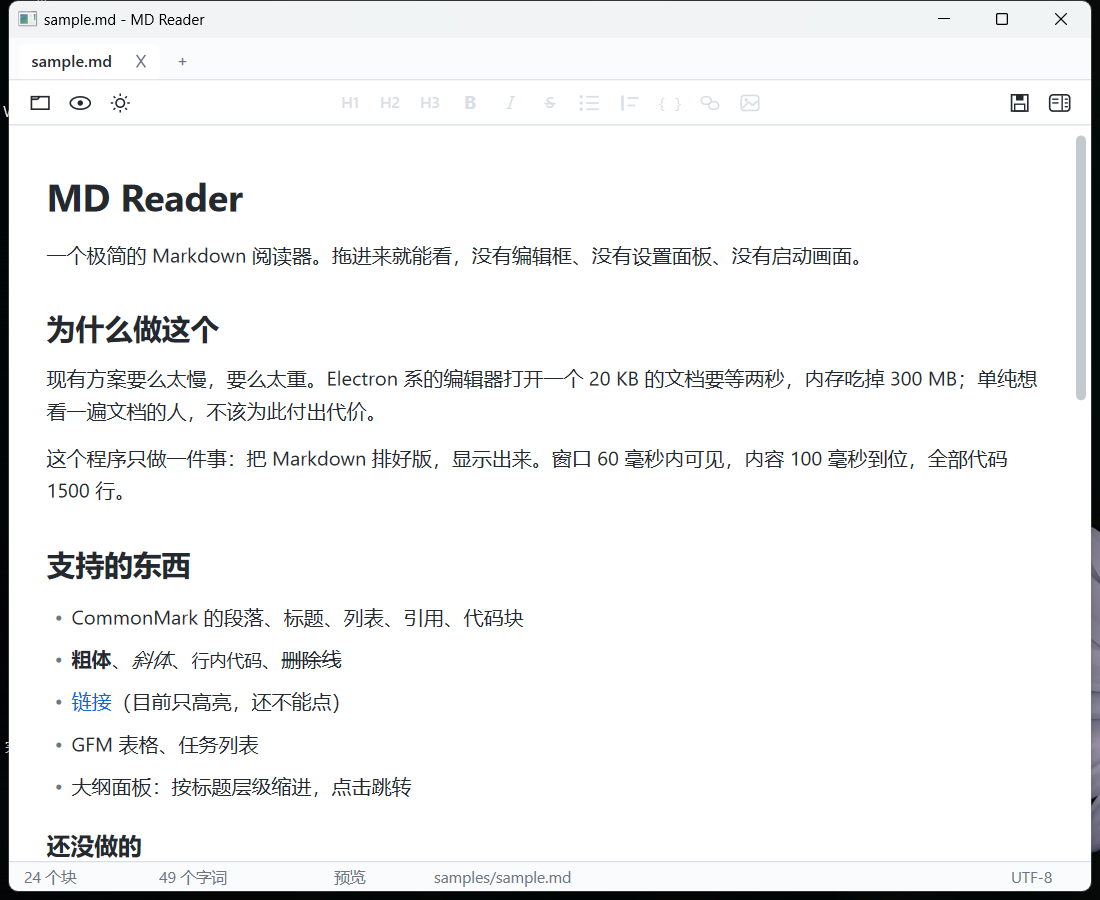
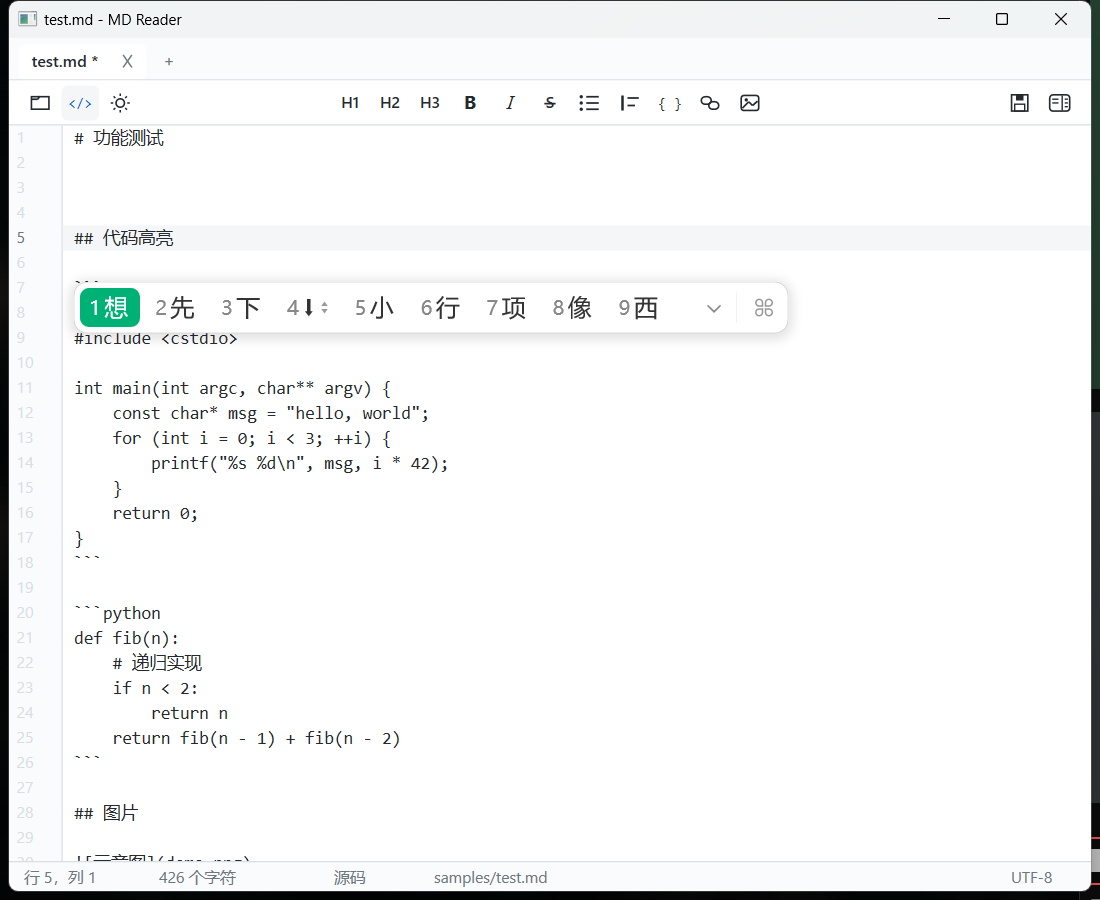
去掉预览点击编辑，支持粘贴图片到 attachment，修 Enter 双换行
- 预览模式恢复纯只读，点击不再跳到源码
- 源码模式 Ctrl+V：剪贴板位图经 WIC 编码成 PNG，存到文档同级 attachment/ 目录，
  插入 ![](attachment/image-<时间戳>.png)；未保存的文档给出提示
- Enter / Tab 同时在 WM_KEYDOWN 和 WM_CHAR 里处理，导致一次回车换两行，已修正
- 清理构建过程文件，重新打包 dist/MDReader-win64.zip 并更新安装副本

diff --git a/src/main.cpp b/src/main.cpp
@@ -298,9 +298,59 @@ void edCopy(App& app, bool cut) {
     InvalidateRect(app.hwnd, nullptr, FALSE);
 }
 
+namespace {
+
+// Pastes a clipboard bitmap as attachment/<name>.png next to the document and
+// inserts the markdown link at the caret.
+void pasteClipboardImage(App& app) {
+    if (!app.hasTab() || app.tab().path.empty()) {
+        MessageBoxW(app.hwnd, L"先把文档保存到磁盘，图片会放到同级目录的 attachment 文件夹",
+                    L"MD Reader", MB_ICONINFORMATION);
+        return;
+    }
+    std::wstring path = app.tab().path;
+    size_t slash = path.find_last_of(L"\/");
+    std::wstring dir = (slash == std::wstring::npos) ? std::wstring() : path.substr(0, slash + 1);
+    std::wstring attach = dir + L"attachment";
+    CreateDirectoryW(attach.c_str(), nullptr);
+
+    SYSTEMTIME st;
+    GetLocalTime(&st);
+    wchar_t name[128];
+    for (int n = 0; n < 100; ++n) {
+        if (n == 0)
+            swprintf(name, 128, L"attachment/image-%02d%02d%02d-%02d%02d%02d.png", st.wYear % 100,
+                     st.wMonth, st.wDay, st.wHour, st.wMinute, st.wSecond);
+        else
+            swprintf(name, 128, L"attachment/image-%02d%02d%02d-%02d%02d%02d-%d.png",
+                     st.wYear % 100, st.wMonth, st.wDay, st.wHour, st.wMinute, st.wSecond, n);
+        std::wstring full = dir + name;
+        if (GetFileAttributesW(full.c_str()) != INVALID_FILE_ATTRIBUTES) continue;
+        if (!saveClipboardImage(app.hwnd, full)) return;
+        std::wstring insert = std::wstring(L"![](") + name + L")";
+        Editor& ed = app.tab().ed;
+        // On its own line the image becomes a block-level element.
+        if (ed.caret.col > 0) insert = std::wstring(L"\n") + insert;
+        ed.snapshot(GetTickCount64());
+        ed.insert(insert + std::wstring(L"\n"));
+        app.tab().dirty = true;
+        edEnsureCaretVisible(app);
+        InvalidateRect(app.hwnd, nullptr, FALSE);
+        return;
+    }
+}
+
+}  // namespace
+
 void edPaste(App& app) {
     if (!app.hasTab() || app.tab().mode != Mode::Source) return;
     if (!OpenClipboard(app.hwnd)) return;
+
+    if (!IsClipboardFormatAvailable(CF_UNICODETEXT) && IsClipboardFormatAvailable(CF_DIB)) {
+        CloseClipboard();
+        pasteClipboardImage(app);
+        return;
+    }
     HANDLE h = GetClipboardData(CF_UNICODETEXT);
     if (h) {
         const wchar_t* p = (const wchar_t*)GlobalLock(h);
@@ -658,77 +708,6 @@ void openHelp(App& app) {
 }
 
 
-// ------------------------------------------------------------------ preview editing
-
-int blockAtViewPoint(App& app, float x, float y) {
-    if (!app.hasTab()) return -1;
-    Tab& t = app.tab();
-    if (x < 0.f || x > app.contentRight()) return -1;
-    float docY = y - app.contentTop() + t.scrollY;
-    for (const auto& it : t.lay.items) {
-        if (docY >= it.y && docY <= it.y + it.h) return it.blockIndex;
-        if (it.y > docY) break;
-    }
-    return -1;
-}
-
-namespace {
-
-std::wstring blockNeedle(const Block& b) {
-    std::wstring s;
-    if (b.kind == BKind::Code) {
-        size_t i = 0;
-        while (i < b.code.size() && (b.code[i] == L'\n' || b.code[i] == L'\r')) ++i;
-        size_t j = b.code.find_first_of(L"\r\n", i);
-        s = b.code.substr(i, j == std::wstring::npos ? std::wstring::npos : j - i);
-    } else if (b.kind == BKind::Table) {
-        return std::wstring();
-    } else {
-        for (const auto& r : b.runs) s += r.text;
-    }
-    size_t a = s.find_first_not_of(L" \t\r\n");
-    if (a == std::wstring::npos) return std::wstring();
-    s = s.substr(a);
-    if (s.size() > 24) s = s.substr(0, 24);
-    return s;
-}
-
-}  // namespace
-
-// Blocks appear in document order, so a forward search over the buffer finds
-// each one: short needles keep it working when markdown markers sit between.
-int sourceLineForBlock(Tab& t, int blockIndex) {
-    std::wstring src = t.ed.text();
-    size_t pos = 0;
-    for (int i = 0; i <= blockIndex && i < (int)t.doc.blocks.size(); ++i) {
-        std::wstring needle = blockNeedle(t.doc.blocks[(size_t)i]);
-        if (needle.empty()) continue;
-        for (size_t cut : {needle.size(), (size_t)16, (size_t)10, (size_t)6, (size_t)4}) {
-            if (cut > needle.size()) continue;
-            size_t found = src.find(needle.substr(0, cut), pos);
-            if (found != std::wstring::npos) {
-                pos = found;
-                break;
-            }
-        }
-    }
-    int line = 0;
-    for (size_t i = 0; i < pos && i < src.size(); ++i)
-        if (src[i] == L'\n') ++line;
-    return line;
-}
-
-void previewEditAt(App& app, int blockIndex) {
-    if (!app.hasTab() || blockIndex < 0) return;
-    int line = sourceLineForBlock(app.tab(), blockIndex);
-    switchMode(app, Mode::Source);
-    Editor& ed = app.tab().ed;
-    ed.moveTo(Pos{line, 0}, false);
-    ed.firstLine = std::max(0, line - 4);
-    edEnsureCaretVisible(app);
-    InvalidateRect(app.hwnd, nullptr, FALSE);
-}
-
 void toggleTheme(App& app) {
     app.themeDark = !app.themeDark;
     app.forceTheme = app.themeDark ? 1 : 2;
@@ -954,11 +933,6 @@ static LRESULT CALLBACK WndProc(HWND h, UINT msg, WPARAM wp, LPARAM lp) {
                         scrollToBlock(*app, app->tab().toc[(size_t)oi].blockIndex);
                         return 0;
                     }
-                    int bi = blockAtViewPoint(*app, x, y);
-                    if (bi >= 0) {
-                        previewEditAt(*app, bi);
-                        return 0;
-                    }
                     ScrollGeom g = scrollGeom(*app);
                     if (g.visible && x >= g.trackX - 6.f && x <= g.trackX + g.trackW + 6.f) {
                         if (y >= g.thumbY && y <= g.thumbY + g.thumbH) {
@@ -1041,8 +1015,8 @@ static LRESULT CALLBACK WndProc(HWND h, UINT msg, WPARAM wp, LPARAM lp) {
                 return 0;
             }
             if (app->hasTab() && app->tab().mode == Mode::Source) {
-                if (c == L'\r') { edKey(*app, VK_RETURN, false, false); return 0; }
-                if (c == L'\t') { edInsertText(*app, L"    "); return 0; }
+                // Enter and Tab arrive through WM_KEYDOWN; ignore the WM_CHAR copies.
+                if (c == L'\r' || c == L'\t') return 0;
                 if (c >= 32 && c != 127) {
                     wchar_t buf[2] = {c, 0};
                     edInsertText(*app, buf);

diff --git a/src/images.cpp b/src/images.cpp
@@ -195,3 +195,80 @@ void drawImageBlock(App& app, const Item& it, const std::wstring& path) {
                           (r.top + r.bottom) * 0.5f + 14.f),
                      app.brMuted.get(), D2D1_DRAW_TEXT_OPTIONS_CLIP);
 }
+
+// Pulls a CF_DIB off the clipboard and writes it as a PNG next to the
+// document, so pasted screenshots become ordinary relative links.
+bool saveClipboardImage(HWND owner, const std::wstring& file) {
+    if (!OpenClipboard(owner)) return false;
+    HANDLE h = GetClipboardData(CF_DIB);
+    if (!h) {
+        CloseClipboard();
+        return false;
+    }
+    const BITMAPINFOHEADER* bi = (const BITMAPINFOHEADER*)GlobalLock(h);
+    bool ok = false;
+    if (bi && bi->biBitCount >= 24 && bi->biCompression == BI_RGB) {
+        int w = (int)bi->biWidth;
+        int hgt = (int)bi->biHeight;
+        bool topDown = hgt < 0;
+        if (topDown) hgt = -hgt;
+        const BYTE* bits = (const BYTE*)bi + bi->biSize;
+        const int srcBpp = bi->biBitCount / 8;
+        const int srcStride = ((w * bi->biBitCount + 31) / 32) * 4;
+
+        std::vector<BYTE> px((size_t)w * (size_t)hgt * 4, 0);
+        bool anyAlpha = false;
+        for (int y = 0; y < hgt; ++y) {
+            const BYTE* row = bits + (size_t)(topDown ? y : hgt - 1 - y) * srcStride;
+            BYTE* dst = px.data() + (size_t)y * w * 4;
+            for (int x = 0; x < w; ++x) {
+                dst[x * 4 + 0] = row[x * srcBpp + 0];
+                dst[x * 4 + 1] = row[x * srcBpp + 1];
+                dst[x * 4 + 2] = row[x * srcBpp + 2];
+                BYTE a = srcBpp == 4 ? row[x * 4 + 3] : 255;
+                dst[x * 4 + 3] = a;
+                if (a) anyAlpha = true;
+            }
+        }
+        if (!anyAlpha)
+            for (size_t i = 3; i < px.size(); i += 4) px[i] = 255;
+
+        IWICImagingFactory* f = nullptr;
+        if (SUCCEEDED(CoCreateInstance(CLSID_WICImagingFactory, nullptr, CLSCTX_INPROC_SERVER,
+                                       IID_PPV_ARGS(&f)))) {
+            IWICBitmap* bmp = nullptr;
+            if (SUCCEEDED(f->CreateBitmapFromMemory((UINT)w, (UINT)hgt,
+                                                    GUID_WICPixelFormat32bppBGRA, (UINT)w * 4,
+                                                    (UINT)px.size(), px.data(), &bmp))) {
+                IWICStream* stream = nullptr;
+                if (SUCCEEDED(f->CreateStream(&stream)) &&
+                    SUCCEEDED(stream->InitializeFromFilename(file.c_str(), GENERIC_WRITE))) {
+                    IWICBitmapEncoder* enc = nullptr;
+                    if (SUCCEEDED(f->CreateEncoder(GUID_ContainerFormatPng, nullptr, &enc)) &&
+                        SUCCEEDED(enc->Initialize(stream, WICBitmapEncoderNoCache))) {
+                        IWICBitmapFrameEncode* frame = nullptr;
+                        IPropertyBag2* props = nullptr;
+                        if (SUCCEEDED(enc->CreateNewFrame(&frame, &props))) {
+                            frame->Initialize(props);
+                            frame->SetSize((UINT)w, (UINT)hgt);
+                            WICPixelFormatGUID fmt = GUID_WICPixelFormat32bppBGRA;
+                            frame->SetPixelFormat(&fmt);
+                            if (SUCCEEDED(frame->WriteSource(bmp, nullptr)) &&
+                                SUCCEEDED(frame->Commit()))
+                                ok = SUCCEEDED(enc->Commit());
+                            frame->Release();
+                            if (props) props->Release();
+                        }
+                        enc->Release();
+                    }
+                    stream->Release();
+                }
+                bmp->Release();
+            }
+            f->Release();
+        }
+    }
+    GlobalUnlock(h);
+    CloseClipboard();
+    return ok;
+}

diff --git a/src/app.h b/src/app.h
@@ -84,9 +84,6 @@ void toggleMode(App& app);
 bool saveTab(App& app);           // false when cancelled/failed
 void saveTabAs(App& app);
 void syncEditorToPreview(App& app);  // re-parse the buffer, re-anchor the view
-void previewEditAt(App& app, int blockIndex);
-int blockAtViewPoint(App& app, float x, float y);
-int sourceLineForBlock(Tab& t, int blockIndex);
 
 // ---- layout / scrolling ----
 void scrollTo(App& app, float y);
@@ -135,6 +132,7 @@ bool imageInfo(const std::wstring& path, UINT* w, UINT* h, int* state);
 void requestImage(App& app, const std::wstring& path);
 ID2D1Bitmap* imageBitmap(const std::wstring& path);
 void drawImageBlock(App& app, const Item& it, const std::wstring& path);
+bool saveClipboardImage(HWND owner, const std::wstring& path);
 
 // ---- syntax highlighting ----
 void highlightCode(const std::wstring& code, const std::wstring& lang, std::vector<Run>& out);

diff --git a/README.md b/README.md
@@ -53,6 +53,8 @@ mdreader.exe --register | --unregister     写入/删除文件关联（HKCU）
 | Ctrl+A | 全选 | Ctrl+C / X / V | 复制 / 剪切 / 粘贴 |
 | F3 / Shift+F3 | 下一个 / 上一个匹配 | Esc | 关闭查找 |
 
+预览模式是只读的，点击只用于滚动和大纲跳转，不会进入编辑。
+
 预览：滚轮、PageUp/PageDown、空格、Home/End、方向键。
 源码：方向键、Home/End、Ctrl+←/→ 按词移动、Shift 选中、Shift+滚轮横向滚动。
 
@@ -60,11 +62,11 @@ mdreader.exe --register | --unregister     写入/删除文件关联（HKCU）
 
 - CommonMark + GFM：标题、列表（有序/无序/嵌套/任务列表）、引用、围栏代码块、表格、分隔线、删除线、行内代码
 - 代码块语法高亮（注释 / 字符串 / 数字 / 关键字，C 系、Python、Shell、Markdown 等共用一套词法规则）
-- 图片：本地相对路径，WIC 后台线程解码，解码完成自动回流排版
+- 图片：本地相对路径，WIC 后台线程解码，解码完成自动回流排版；支持从剪贴板粘贴截图
 - 标签页：新建 / 切换 / 关闭，脏标记，关闭前提示保存
 - 源码编辑：光标、选区（鼠标/Shift）、中文 IME（输入法窗口跟随光标）、撤销（400 ms 内合并）、Ctrl+S 保存
 - 工具条：左组 打开/源码预览/深浅色，中组 H1–H3/B/I/S/列表/引用/代码/链接/图片，右组 保存/大纲
-- 预览里点任意一段，直接跳到源码对应行开始编辑（搜索匹配定位，不需要解析器给偏移）
+- 粘贴图片：源码模式下 Ctrl+V，剪贴板里的位图会存成文档同级 `attachment/image-<时间戳>.png` 并插入 `![](attachment/xxx.png)`
 - 程序图标：白底圆角 + 黑色线性文件夹，9 个尺寸（16–256）打进 exe
 - 大纲面板：层级缩进、当前章节高亮、点击跳转、滚轮独立滚动
 - 查找：源码模式按字符定位，预览模式跳到匹配块；显示 `n / 总数`
